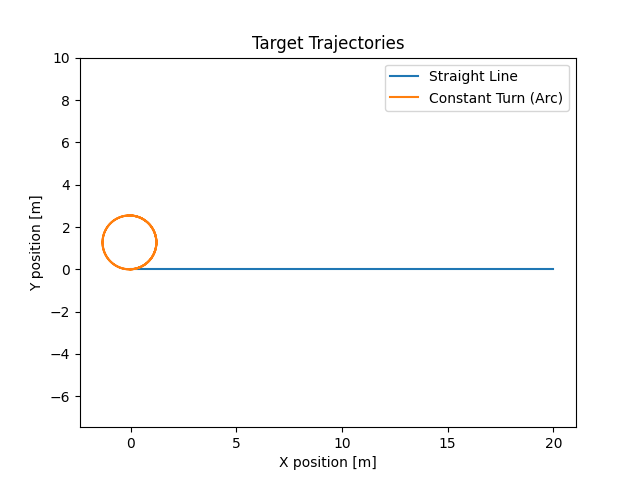
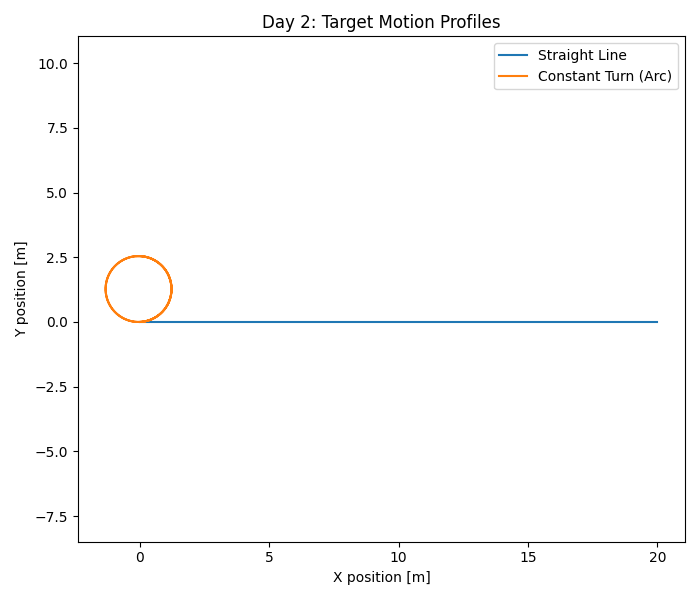
Day 4: Add outer-loop position controller demo and update plots

diff --git a/src/main.py b/src/main.py
@@ -1,53 +1,59 @@
 # src/main.py
-from guidance import PurePursuitGuidance
+
 from target import TargetProfile, ConstantHeadingTarget
+from guidance import PurePursuitGuidance
+from position_controller import PositionController
 import numpy as np
 import matplotlib.pyplot as plt
-
-print("Starting simulation for Day 2: Target Motion Profiles")
 
 dt = 0.1
 steps = int(20 / dt)
 
-# --- Profile 1: Straight line ---
-tgt1 = TargetProfile([0, 0], [1, 0], speed=1.0)  # Start at (0,0), heading right, 1 m/s
+##############################
+# Day 2: Target Motion Profiles
+##############################
+
+tgt1 = TargetProfile([0, 0], [1, 0], speed=1.0)
 traj1 = [tgt1.position.copy()]
 for _ in range(steps):
     tgt1.update(dt)
     traj1.append(tgt1.position.copy())
 traj1 = np.array(traj1)
 
-# --- Profile 2: Constant turn rate (circle/arc) ---
-tgt2 = ConstantHeadingTarget([0, 0], [1, 0], speed=1.0, turn_rate=np.deg2rad(45))  # 45 deg/s
+tgt2 = ConstantHeadingTarget([0, 0], [1, 0], speed=1.0, turn_rate=np.deg2rad(45))
 traj2 = [tgt2.position.copy()]
 for _ in range(steps):
     tgt2.update(dt)
     traj2.append(tgt2.position.copy())
 traj2 = np.array(traj2)
 
-# --- Plot both profiles ---
+plt.figure(figsize=(7,6))
 plt.plot(traj1[:, 0], traj1[:, 1], label='Straight Line')
 plt.plot(traj2[:, 0], traj2[:, 1], label='Constant Turn (Arc)')
 plt.xlabel('X position [m]')
 plt.ylabel('Y position [m]')
 plt.axis('equal')
 plt.legend()
-plt.title('Target Trajectories')
+plt.title('Day 2: Target Motion Profiles')
+plt.tight_layout()
+plt.savefig("doc/day2_target_profiles.png")
 plt.show()
 
-# ========== DAY 3: Simple Guidance & Pursuer ==========
-print("=== Day 3: Guidance (Pursuer) ===")
+##############################
+# Day 3: Pure Pursuit Guidance (Kinematic)
+##############################
 
+print("\n=== Day 3: Guidance (Pure Pursuit, Kinematic) ===")
 target = ConstantHeadingTarget([0, 0], [1, 0], speed=1.0, turn_rate=np.deg2rad(45))
 pursuer_pos = np.array([-5.0, -5.0])
 pursuer_traj = [pursuer_pos.copy()]
 target_traj = [target.position.copy()]
-
-guidance = PurePursuitGuidance(gain=1.2)
+guidance = PurePursuitGuidance()
 
 for _ in range(steps):
     target.update(dt)
     target_traj.append(target.position.copy())
+    # Guidance: "chase" target directly (constant speed)
     pursuer_vel = guidance.compute_command(pursuer_pos, target.position)
     pursuer_pos += pursuer_vel * dt
     pursuer_traj.append(pursuer_pos.copy())
@@ -55,13 +61,66 @@ for _ in range(steps):
 target_traj = np.array(target_traj)
 pursuer_traj = np.array(pursuer_traj)
 
-plt.figure()
-plt.plot(target_traj[:, 0], target_traj[:, 1], label="Target")
-plt.plot(pursuer_traj[:, 0], pursuer_traj[:, 1], label="Pursuer")
+plt.figure(figsize=(7,6))
+plt.plot(target_traj[:, 0], target_traj[:, 1], label='Target (arc)', linewidth=2)
+plt.plot(pursuer_traj[:, 0], pursuer_traj[:, 1], label='Pursuer (pursuit)', linewidth=2)
+plt.scatter([pursuer_traj[0,0]], [pursuer_traj[0,1]], c='green', s=80, label="Pursuer Start")
+plt.scatter([target_traj[0,0]], [target_traj[0,1]], c='red', s=80, label="Target Start")
 plt.xlabel('X position [m]')
 plt.ylabel('Y position [m]')
+plt.title('Day 3: Pure Pursuit Guidance')
+plt.axis('equal')
 plt.legend()
-plt.title('Day 3: Pursuer Guidance')
-plt.savefig("doc/day3_guidance_demo.png")  # Save the plot to file
+plt.grid(True)
+plt.tight_layout()
+plt.savefig("doc/day3_guidance_demo.png")
+plt.show()
+
+##############################
+# Day 4: PD Position Controller (with Guidance Law)
+##############################
+
+print("\n=== Day 4: Outer-Loop Position Controller Demo ===")
+target = ConstantHeadingTarget([0, 0], [1, 0], speed=1.0, turn_rate=np.deg2rad(45))
+pursuer_pos = np.array([-5.0, -5.0])
+pursuer_vel = np.zeros(2)
+target_traj = [target.position.copy()]
+pursuer_traj = [pursuer_pos.copy()]
+guidance = PurePursuitGuidance()
+pos_controller = PositionController(kp=1.2, kd=0.6, max_acc=3.0)
+
+for _ in range(steps):
+    target.update(dt)
+    target_traj.append(target.position.copy())
+
+    # Guidance: desired position is current target position
+    desired_pos = target.position.copy()
+    desired_vel = np.zeros(2)
+    acc_cmd = pos_controller.compute_acceleration(
+        current_pos=pursuer_pos,
+        current_vel=pursuer_vel,
+        desired_pos=desired_pos,
+        desired_vel=desired_vel
+    )
+    pursuer_vel += acc_cmd * dt
+    pursuer_pos += pursuer_vel * dt
+    pursuer_traj.append(pursuer_pos.copy())
+
+target_traj = np.array(target_traj)
+pursuer_traj = np.array(pursuer_traj)
+
+plt.figure(figsize=(7,6))
+plt.plot(target_traj[:, 0], target_traj[:, 1], label='Target (arc)', linewidth=2)
+plt.plot(pursuer_traj[:, 0], pursuer_traj[:, 1], label='Pursuer (PD-controlled)', linewidth=2)
+plt.scatter([pursuer_traj[0,0]], [pursuer_traj[0,1]], c='green', s=80, label="Pursuer Start")
+plt.scatter([target_traj[0,0]], [target_traj[0,1]], c='red', s=80, label="Target Start")
+plt.xlabel('X position [m]')
+plt.ylabel('Y position [m]')
+plt.title('Day 4: Outer-Loop Position Control (PD)')
+plt.axis('equal')
+plt.legend()
+plt.grid(True)
+plt.tight_layout()
+plt.savefig("doc/day4_position_controller_demo.png")
 plt.show()
 

diff --git a/src/position_controller.py b/src/position_controller.py
@@ -1,0 +1,21 @@
+# src/position_controller.py
+
+import numpy as np
+
+class PositionController:
+    def __init__(self, kp=1.0, kd=0.5, max_acc=3.0):
+        self.kp = kp  # Proportional gain
+        self.kd = kd  # Derivative gain
+        self.max_acc = max_acc  # Maximum acceleration (m/s^2)
+
+    def compute_acceleration(self, current_pos, current_vel, desired_pos, desired_vel):
+        # PD law: acceleration = kp * pos_error + kd * vel_error
+        pos_error = np.array(desired_pos) - np.array(current_pos)
+        vel_error = np.array(desired_vel) - np.array(current_vel)
+        acc_cmd = self.kp * pos_error + self.kd * vel_error
+        # Limit acceleration
+        norm = np.linalg.norm(acc_cmd)
+        if norm > self.max_acc:
+            acc_cmd = acc_cmd / norm * self.max_acc
+        return acc_cmd
+
